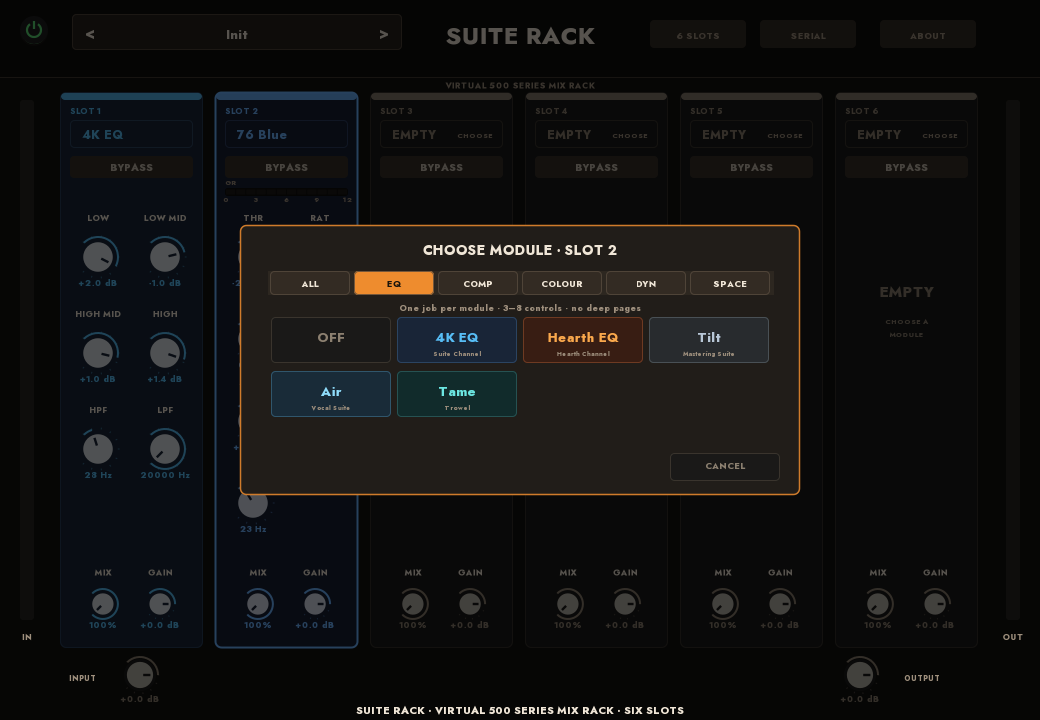
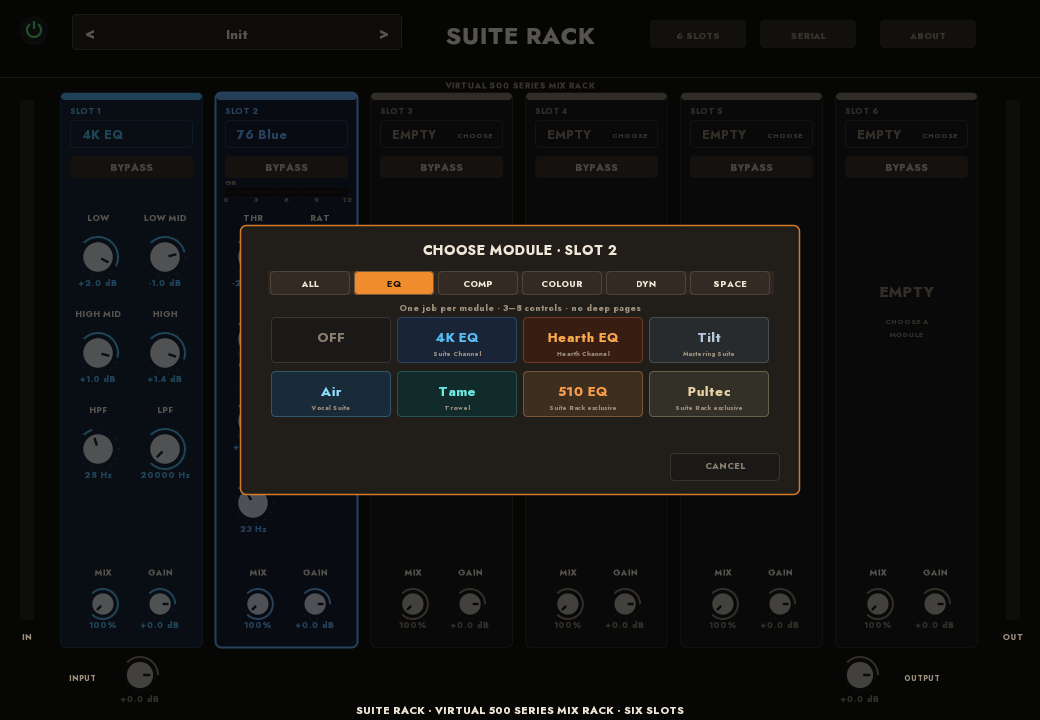
Suite Rack 0.22.0-m2 — 510 and Pultec EQs

Changed region(s): [[0.4923, 0.4889, 0.7077, 0.5806]]

diff --git a/src/dsp/engine.hpp b/src/dsp/engine.hpp
@@ -41,6 +41,8 @@ public:
     for (auto& reel : reel_) reel.prepare(sr_);
     for (auto& ember : ember_) ember.prepare(sr_);
     for (auto& tame : tame_) tame.prepare(sr_);
+    for (auto& eq510 : eq510_) eq510.prepare(sr_);
+    for (auto& pultec : pultec_) pultec.prepare(sr_);
     for (auto& cleanup : cleanup_) cleanup.prepare(sr_);
     for (auto& reverb : spaceReverb_) reverb.prepare(sr_);
     for (auto& delay : spaceDelay_) delay.prepare(sr_);
@@ -81,6 +83,8 @@ public:
       reel_[i].setControls(reelControlsFrom(c.slot[i]));
       ember_[i].setControls(emberControlsFrom(c.slot[i]));
       tame_[i].setControls(tameControlsFrom(c.slot[i]));
+      eq510_[i].setControls(eq510ControlsFrom(c.slot[i]));
+      pultec_[i].setControls(pultecControlsFrom(c.slot[i]));
       cleanup_[i].setControls(cleanupControlsFrom(c.slot[i]));
       spaceReverb_[i].setControls(
           spaceReverbControlsFrom(c.slot[i], spaceReverbMode(c.slot[i].type)));
@@ -144,6 +148,12 @@ public:
             break;
           case ModuleId::Tame:
             tame_[s].process(l, r);
+            break;
+          case ModuleId::Eq510:
+            eq510_[s].process(l, r);
+            break;
+          case ModuleId::Pultec:
+            pultec_[s].process(l, r);
             break;
           case ModuleId::ColourValve:
           case ModuleId::ColourConsole:
@@ -284,6 +294,8 @@ public:
     for (auto& reel : reel_) reel.reset();
     for (auto& ember : ember_) ember.reset();
     for (auto& tame : tame_) tame.reset();
+    for (auto& eq510 : eq510_) eq510.reset();
+    for (auto& pultec : pultec_) pultec.reset();
     for (auto& cleanup : cleanup_) cleanup.reset();
     for (auto& reverb : spaceReverb_) reverb.reset();
     for (auto& delay : spaceDelay_) delay.reset();
@@ -335,6 +347,8 @@ private:
   hdsp::modules::Reel reel_[kSlotCount];
   hdsp::modules::Ember ember_[kSlotCount];
   hdsp::modules::Tame tame_[kSlotCount];
+  hdsp::modules::Eq510 eq510_[kSlotCount];
+  hdsp::modules::Pultec pultec_[kSlotCount];
   hdsp::modules::Cleanup cleanup_[kSlotCount];
   hdsp::modules::SpaceReverb spaceReverb_[kSlotCount];
   hdsp::modules::SpaceDelay spaceDelay_[kSlotCount];

diff --git a/src/modules.hpp b/src/modules.hpp
@@ -60,6 +60,7 @@ enum class ControlFormat {
   SpacePreDelayMs,
   SpaceDelayMs,
   CompDistortion,
+  BoostDb,
 };
 
 struct ControlDesc {
@@ -137,6 +138,21 @@ inline constexpr const char* kDistortionLabels[] = {
 };
 
 inline constexpr const char* kReelTypes[] = {"Reel", "Cassette"};
+
+inline constexpr ControlDesc kEq510Controls[] = {
+    {0, "LOW", "Low", ControlFormat::TiltDb},
+    {1, "MID", "Mid", ControlFormat::TiltDb},
+    {2, "HIGH", "High", ControlFormat::TiltDb},
+    {3, "HPF", "HPF", ControlFormat::EqHpfHz},
+};
+
+inline constexpr ControlDesc kPultecControls[] = {
+    {0, "LOW BOOST", "Low Boost", ControlFormat::BoostDb},
+    {1, "LOW ATTEN", "Low Attenuation", ControlFormat::BoostDb},
+    {2, "HIGH BOOST", "High Boost", ControlFormat::BoostDb},
+    {3, "HIGH ATTEN", "High Attenuation", ControlFormat::BoostDb},
+    {4, "BANDWIDTH", "Bandwidth", ControlFormat::Percent},
+};
 
 inline constexpr ControlDesc kTameControls[] = {
     {0, "AMOUNT", "Amount", ControlFormat::Percent},
@@ -561,6 +577,13 @@ inline constexpr ModuleDesc kModules[] = {
     {ModuleId::Tame, "Tame", "EQ", "Trowel resonance suppressor", false, false,
      0, static_cast<int>(sizeof(kTameControls) / sizeof(kTameControls[0])),
      kTameControls},
+    {ModuleId::Eq510, "510 EQ", "EQ", "Fixed-band console EQ", false, false, 0,
+     static_cast<int>(sizeof(kEq510Controls) / sizeof(kEq510Controls[0])),
+     kEq510Controls},
+    {ModuleId::Pultec, "Pultec", "EQ", "Low/high boost and cut EQ", false,
+     false, 0,
+     static_cast<int>(sizeof(kPultecControls) / sizeof(kPultecControls[0])),
+     kPultecControls},
 };
 
 static_assert(sizeof(kModules) / sizeof(kModules[0]) == kModuleCount,
@@ -620,6 +643,8 @@ inline constexpr const char* kModuleSources[kModuleCount] = {
     "Adhesive",
     "Ember",
     "Trowel",
+    "Suite Rack exclusive",
+    "Suite Rack exclusive",
 };
 
 constexpr bool moduleSourcesComplete() noexcept {

diff --git a/src/module_ids.hpp b/src/module_ids.hpp
@@ -60,6 +60,8 @@ enum class ModuleId : int {
   Reel,
   Ember,
   Tame,
+  Eq510,
+  Pultec,
   Count
 };
 
@@ -76,7 +78,7 @@ inline constexpr const char* kModuleLabels[] = {
     "Spring",    "Digital",  "Tape",     "Analog",    "Ping-Pong",
     "Chorus",    "Flanger",  "Phaser",   "Dimension", "Hearth Comp",
     "Glue",      "Xpress",   "Digital",  "Molot",    "Red",
-    "Reel",      "Ember",    "Tame",
+    "Reel",      "Ember",    "Tame",     "510 EQ",   "Pultec",
 };
 
 static_assert(sizeof(kModuleLabels) / sizeof(kModuleLabels[0]) == kModuleCount,
@@ -499,6 +501,23 @@ constexpr double defaultControlValue(ModuleId id, int control) noexcept {
         case 2: return 0.50;  // Selectivity
         case 3: return 0.50;  // Sensitivity
         case 4: return 1.00;  // Mix
+        default: return 0.50;
+      }
+    case ModuleId::Eq510:
+      switch (control) {
+        case 0: return 0.50;  // Low
+        case 1: return 0.50;  // Mid
+        case 2: return 0.50;  // High
+        case 3: return 0.00;  // HPF
+        default: return 0.50;
+      }
+    case ModuleId::Pultec:
+      switch (control) {
+        case 0: return 0.00;  // Low boost
+        case 1: return 0.00;  // Low atten
+        case 2: return 0.00;  // High boost
+        case 3: return 0.00;  // High atten
+        case 4: return 0.50;  // Bandwidth
         default: return 0.50;
       }
     default:

diff --git a/test/ui_preview.cpp b/test/ui_preview.cpp
@@ -116,6 +116,16 @@ int main(int argc, char** argv) {
   state.selectedSlot = 2;
   panel.draw(cr, s, state);
   cairo_surface_write_to_png(surf, (out + "/rack-tame.png").c_str());
+  applyModuleDefaults(s, 2, static_cast<int>(ModuleId::Eq510));
+  applyModuleDefaults(s, 3, static_cast<int>(ModuleId::Pultec));
+  s.set(slotParam(2, kSlotOffsetC0 + 0), 0.65);
+  s.set(slotParam(2, kSlotOffsetC0 + 3), 0.20);
+  s.set(slotParam(3, kSlotOffsetC0 + 0), 0.60);
+  s.set(slotParam(3, kSlotOffsetC0 + 1), 0.20);
+  s.set(slotParam(3, kSlotOffsetC0 + 2), 0.50);
+  state.selectedSlot = 2;
+  panel.draw(cr, s, state);
+  cairo_surface_write_to_png(surf, (out + "/rack-eq-extra.png").c_str());
   state.aboutOpen = true;
   panel.draw(cr, s, state);
   cairo_surface_write_to_png(surf, (out + "/rack-about.png").c_str());

diff --git a/src/dsp/module_map.hpp b/src/dsp/module_map.hpp
@@ -205,6 +205,27 @@ inline hdsp::modules::SpaceModControls spaceModControlsFrom(
   return out;
 }
 
+inline hdsp::modules::Eq510Controls eq510ControlsFrom(
+    const SlotControls& c) noexcept {
+  hdsp::modules::Eq510Controls out;
+  out.low = c.c[0];
+  out.mid = c.c[1];
+  out.high = c.c[2];
+  out.hpf = c.c[3];
+  return out;
+}
+
+inline hdsp::modules::PultecControls pultecControlsFrom(
+    const SlotControls& c) noexcept {
+  hdsp::modules::PultecControls out;
+  out.lowBoost = c.c[0];
+  out.lowAtten = c.c[1];
+  out.highBoost = c.c[2];
+  out.highAtten = c.c[3];
+  out.bandwidth = c.c[4];
+  return out;
+}
+
 inline hdsp::modules::TameControls tameControlsFrom(
     const SlotControls& c) noexcept {
   hdsp::modules::TameControls out;

diff --git a/src/ui/panel.cpp b/src/ui/panel.cpp
@@ -207,6 +207,12 @@ ModuleStyle styleFor(int type) {
     case ModuleId::Tame:
       return {{0.07, 0.17, 0.17}, {0.16, 0.34, 0.34},
               {0.42, 0.90, 0.88}, {0.86, 0.93, 0.92}};
+    case ModuleId::Eq510:
+      return {{0.24, 0.18, 0.12}, {0.50, 0.36, 0.22},
+              {0.98, 0.62, 0.30}, {0.95, 0.88, 0.76}};
+    case ModuleId::Pultec:
+      return {{0.20, 0.19, 0.16}, {0.42, 0.40, 0.32},
+              {0.90, 0.82, 0.64}, {0.95, 0.92, 0.84}};
     default:
       return {{0.105, 0.10, 0.095}, {0.24, 0.22, 0.19},
               {0.55, 0.50, 0.44}, {0.72, 0.70, 0.66}};

diff --git a/src/value_text.hpp b/src/value_text.hpp
@@ -213,6 +213,9 @@ inline std::string formatControlValue(const ModuleDesc& module,
       static const char* names[4] = {"Off", "Dist 2", "Dist 3", "Clip"};
       return names[std::clamp(static_cast<int>(std::lround(v * 3.0f)), 0, 3)];
     }
+    case ControlFormat::BoostDb:
+      std::snprintf(buf, sizeof(buf), "%.1f dB", v * 12.0f);
+      return buf;
   }
   std::snprintf(buf, sizeof(buf), "%.2f", v);
   return buf;

diff --git a/test/test_dsp.cpp b/test/test_dsp.cpp
@@ -169,6 +169,8 @@ int main() {
         static_cast<int>(ModuleId::Reel),
         static_cast<int>(ModuleId::Ember),
         static_cast<int>(ModuleId::Tame),
+        static_cast<int>(ModuleId::Eq510),
+        static_cast<int>(ModuleId::Pultec),
     };
     for (int id : ids) {
       Engine e;

diff --git a/src/version.hpp b/src/version.hpp
@@ -4,7 +4,7 @@
 
 namespace rack {
 constexpr int kVersionMajor = 0;
-constexpr int kVersionMinor = 21;
+constexpr int kVersionMinor = 22;
 constexpr int kVersionMicro = 0;
-constexpr const char* kVersion = "0.21.0-m2";
+constexpr const char* kVersion = "0.22.0-m2";
 } // namespace rack

diff --git a/README.md b/README.md
@@ -1,6 +1,6 @@
 # Suite Rack
 
-**Status: 0.21.0-m2 — CLAP + LV2, module registry, fifty-two modules and drag reorder.**
+**Status: 0.22.0-m2 — CLAP + LV2, module registry, fifty-four modules and drag reorder.**
 The rest of the catalog, drag/reorder, module presets, browser search and user
 presets are next.
 
@@ -53,6 +53,8 @@ standalone plugins remain the full versions.
 
 ![Suite Rack — Tame](docs/rack-tame.png)
 
+![Suite Rack — 510 and Pultec](docs/rack-eq-extra.png)
+
 ![Suite Rack — About](docs/rack-about.png)
 
 ## What goes in the rack
@@ -92,7 +94,7 @@ standalone plugins remain the full versions.
 Suite tools (spectral editor, De-Clip, De-Reverb, De-Noise). Those do not fit
 the 500-series format; Cleanup is the lightweight repair representative.
 
-## Current 0.21.0-m2 slice
+## Current 0.22.0-m2 slice
 
 - 1040×720 panel with the Comp Suite-family header: power, preset bar, centered
   title, utility pills.
@@ -115,7 +117,7 @@ the 500-series format; Cleanup is the lightweight repair representative.
   De-Ess, Density, Bleed Out, Peak Limiter, Image, Crush, Filter, Motion, Sub,
   Double, Dynamic EQ, Multiband, Rider, Cleanup, four reverbs, four delays and
   four modulation modules, Hearth Comp, Glue, Xpress, Digital, Molot, Red,
-  Reel, Ember and Tame.
+  Reel, Ember, Tame, 510 EQ and Pultec.
 - Serial engine and per-slot meters in place; DSP and panel tests pass.
 - **CLAP and LV2 builds** load in REAPER with the six-column editor and process
   audio.

diff --git a/CHANGELOG.md b/CHANGELOG.md
@@ -1,5 +1,12 @@
 # Changelog
 
+## 0.22.0-m2 — 2026-11-17
+
+- Added the 510 EQ: low, mid, high and HPF.
+- Added the Pultec: low boost/attenuation, high boost/attenuation and
+  bandwidth.
+- Both live in hearth-dsp and are consumed through the submodule.
+
 ## 0.21.0-m2 — 2026-11-17
 
 - Added Tame: Amount, Focus, Selectivity, Sensitivity and Mix.
